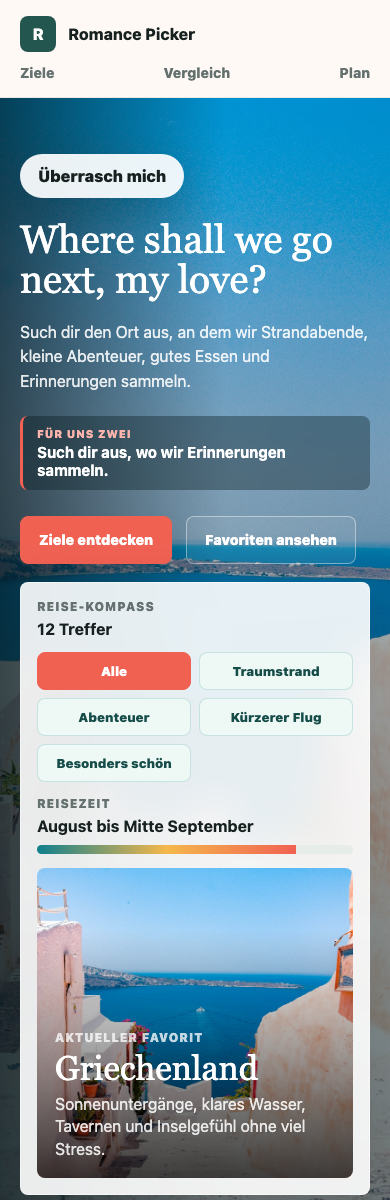
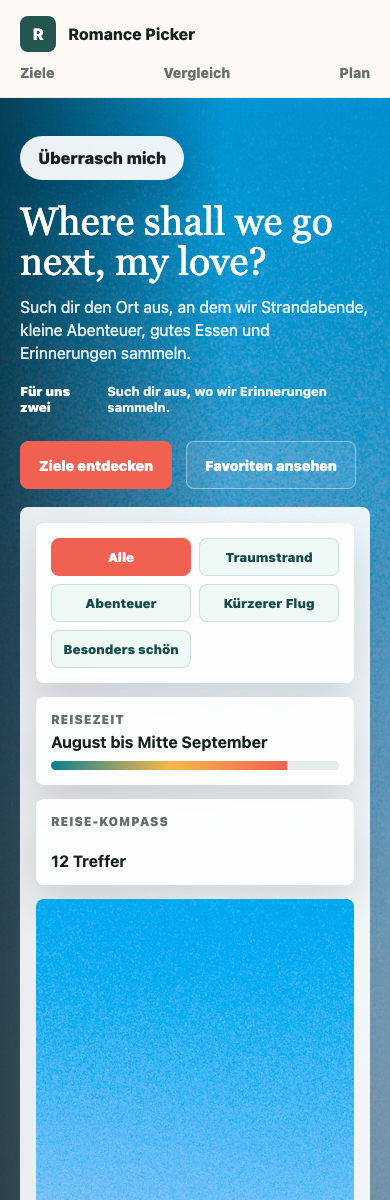
Tighten dashboard mockup fidelity

diff --git a/styles.css b/styles.css
@@ -74,12 +74,9 @@ button { font: inherit; }
 main, footer { margin-left: 182px; }
 .hero {
   position: relative;
-  min-height: 570px;
-  display: grid;
-  grid-template-columns: minmax(0, 1fr) 460px;
-  gap: 18px;
-  align-items: end;
-  padding: 48px 430px 25px 46px;
+  min-height: 462px;
+  display: block;
+  padding: 52px 430px 22px 44px;
   color: white;
   background:
     linear-gradient(90deg, rgba(6, 22, 27, 0.7), rgba(6, 22, 27, 0.08) 58%, rgba(6, 22, 27, 0.1)),
@@ -87,11 +84,11 @@ main, footer { margin-left: 182px; }
     url("https://images.unsplash.com/photo-1533105079780-92b9be482077?auto=format&fit=crop&w=1900&q=84") center / cover;
 }
 .hero > * { min-width: 0; }
-.hero-copy { align-self: start; padding-top: 18px; }
+.hero-copy { position: static; z-index: 2; max-width: 610px; }
 .surprise-pill {
   position: absolute;
-  top: 28px;
-  right: 450px;
+  top: 20px;
+  right: 430px;
   min-height: 44px;
   padding: 0 18px;
   color: var(--ink);
@@ -103,28 +100,27 @@ main, footer { margin-left: 182px; }
   box-shadow: 0 16px 42px rgba(0,0,0,0.16);
 }
 .hero-copy h1 {
-  max-width: 560px;
+  max-width: 520px;
   margin: 0;
   font-family: Georgia, "Times New Roman", serif;
-  font-size: clamp(52px, 4.4vw, 66px);
+  font-size: clamp(46px, 3.6vw, 58px);
   font-weight: 500;
   line-height: 0.98;
   letter-spacing: 0;
 }
-.hero-copy p { max-width: 520px; margin: 20px 0 0; color: rgba(255,255,255,0.88); font-size: 18px; line-height: 1.55; }
+.hero-copy p { max-width: 520px; margin: 14px 0 0; color: rgba(255,255,255,0.88); font-size: 16px; line-height: 1.45; }
 .love-note {
-  display: inline-grid;
-  gap: 3px;
-  margin-top: 22px;
-  padding: 11px 14px;
-  background: rgba(6, 27, 31, 0.38);
-  border-left: 3px solid var(--coral);
-  border-radius: 8px;
-  backdrop-filter: blur(10px);
+  display: inline-flex;
+  align-items: center;
+  gap: 10px;
+  margin-top: 18px;
+  padding: 0;
+  background: transparent;
+  border: 0;
 }
-.love-note span { color: #ffb5ad; font-size: 11px; font-weight: 900; letter-spacing: 0.08em; text-transform: uppercase; }
-.love-note strong { color: white; font-size: 15px; }
-.hero-actions { display: flex; flex-wrap: wrap; gap: 14px; margin-top: 26px; }
+.love-note span { color: white; font-size: 13px; font-weight: 900; letter-spacing: 0; text-transform: none; }
+.love-note strong { color: rgba(255,255,255,0.9); font-size: 13px; }
+.hero-actions { position: absolute; left: 44px; bottom: 28px; z-index: 3; display: flex; flex-wrap: wrap; gap: 14px; margin-top: 0; }
 .primary-action, .ghost-action {
   display: inline-flex;
   align-items: center;
@@ -137,22 +133,40 @@ main, footer { margin-left: 182px; }
 }
 .primary-action { color: white; background: var(--coral); border: 1px solid var(--coral); }
 .ghost-action { color: white; background: rgba(255,255,255,0.08); border: 1px solid rgba(255,255,255,0.42); }
+.hero-actions .ghost-action { display: none; }
 
 .decision-panel {
-  align-self: end;
+  position: absolute;
+  left: 32px;
+  right: 430px;
+  bottom: 120px;
+  z-index: 2;
   display: grid;
-  gap: 14px;
-  padding: 16px;
-  max-width: 100%;
-  overflow: hidden;
+  grid-template-columns: 1.2fr 0.88fr 0.68fr;
+  gap: 8px;
+  padding: 0;
   color: var(--ink);
-  background: rgba(255, 255, 255, 0.9);
-  border: 1px solid rgba(255,255,255,0.5);
+  background: transparent;
+  border: 0;
+  border-radius: 0;
+  box-shadow: none;
+  backdrop-filter: none;
+}
+.panel-head {
+  order: 3;
+  min-height: 86px;
+  padding: 14px;
+  display: flex;
+  align-items: start;
+  justify-content: space-between;
+  gap: 18px;
+  background: rgba(255,255,255,0.92);
+  border: 1px solid rgba(255,255,255,0.62);
   border-radius: 8px;
-  box-shadow: var(--shadow);
+  box-shadow: 0 16px 42px rgba(0,0,0,0.14);
   backdrop-filter: blur(16px);
 }
-.panel-head, .season-meter > div:first-child { display: flex; justify-content: space-between; gap: 18px; }
+.season-meter > div:first-child { display: flex; justify-content: space-between; gap: 18px; }
 .panel-head span, .season-meter span, .spotlight span, .timeline span, .card-meta span {
   color: var(--muted);
   font-size: 12px;
@@ -160,7 +174,18 @@ main, footer { margin-left: 182px; }
   letter-spacing: 0.08em;
   text-transform: uppercase;
 }
-.filter-group { display: flex; flex-wrap: wrap; gap: 8px; }
+.filter-group,
+.season-meter {
+  min-height: 86px;
+  padding: 14px;
+  background: rgba(255,255,255,0.92);
+  border: 1px solid rgba(255,255,255,0.62);
+  border-radius: 8px;
+  box-shadow: 0 16px 42px rgba(0,0,0,0.14);
+  backdrop-filter: blur(16px);
+}
+.filter-group { order: 1; display: flex; flex-wrap: wrap; gap: 8px; }
+.season-meter { order: 2; }
 .chip {
   min-height: 38px;
   padding: 0 13px;
@@ -175,15 +200,15 @@ main, footer { margin-left: 182px; }
 .chip.is-active { color: white; background: var(--coral); border-color: var(--coral); }
 .meter-track { height: 9px; margin-top: 10px; overflow: hidden; background: #e6ece7; border-radius: 99px; }
 .meter-track span { display: block; height: 100%; background: linear-gradient(90deg, var(--sea), var(--sun), var(--coral)); }
-.spotlight { position: relative; min-height: 190px; overflow: hidden; color: white; border-radius: 8px; isolation: isolate; }
+.spotlight { order: 4; position: absolute; left: 0; top: 104px; width: min(385px, 38vw); min-height: 108px; overflow: hidden; color: white; border-radius: 8px; isolation: isolate; }
 .spotlight.image-failed, .card-image.image-failed { background: linear-gradient(135deg, rgba(15,127,141,.35), rgba(233,111,95,.3)), #214f45; }
 .spotlight.image-failed img, .card-image.image-failed img { opacity: 0; }
-.spotlight img { position: absolute; inset: 0; z-index: -2; width: 100%; height: 100%; object-fit: cover; }
-.spotlight::after { position: absolute; inset: 0; z-index: -1; content: ""; background: linear-gradient(180deg, transparent 20%, rgba(0,0,0,0.76)); }
+.spotlight img { display: none; }
+.spotlight::after { position: absolute; inset: 0; z-index: -1; content: ""; background: rgba(5, 26, 31, 0.72); border-left: 2px solid var(--coral); backdrop-filter: blur(8px); }
 .spotlight div { display: flex; flex-direction: column; justify-content: flex-end; height: 100%; padding: 18px; }
 .spotlight span { color: rgba(255,255,255,0.76); }
-.spotlight strong { margin-top: 4px; font-family: Georgia, "Times New Roman", serif; font-size: 34px; font-weight: 500; }
-.spotlight p { max-width: 430px; margin: 6px 0 0; color: rgba(255,255,255,0.86); line-height: 1.4; }
+.spotlight strong { margin-top: 4px; font-family: Georgia, "Times New Roman", serif; font-size: 22px; font-weight: 500; }
+.spotlight p { display: none; }
 
 .compare-drawer {
   position: fixed;
@@ -214,33 +239,36 @@ main, footer { margin-left: 182px; }
 .drawer-table small { color: var(--coral); font-weight: 800; }
 .drawer-action { display: flex; justify-content: center; margin-top: 22px; padding: 14px; border: 1px solid var(--ink); border-radius: 8px; font-size: 14px; font-weight: 900; }
 
-.intro-band { display: grid; grid-template-columns: repeat(3, 1fr); gap: 1px; margin: 0 390px 0 182px; overflow: hidden; background: var(--line); border-bottom: 1px solid var(--line); }
+.intro-band { display: none; }
 .intro-band div { display: grid; gap: 6px; padding: 22px 24px; background: var(--white); }
 .intro-band strong { font-size: 18px; }
 .intro-band span { color: var(--muted); line-height: 1.45; }
-.section-head { display: grid; grid-template-columns: minmax(0, .75fr) minmax(280px, .5fr); gap: 30px; align-items: end; padding: 76px 430px 24px 46px; }
+.section-head { display: grid; grid-template-columns: minmax(0, .75fr) minmax(280px, .5fr); gap: 30px; align-items: end; padding: 18px 430px 10px 22px; background: white; }
 .section-head.compact { grid-template-columns: 1fr; padding: 0; }
-.section-head h2, .planner h2 { margin: 0; font-family: Georgia, "Times New Roman", serif; font-size: clamp(36px, 5vw, 68px); font-weight: 500; line-height: 1; }
-.section-head p, .planner-copy p { margin: 0; color: var(--muted); font-size: 18px; line-height: 1.6; }
+.section-head h2, .planner h2 { margin: 0; font-family: Inter, ui-sans-serif, system-ui, sans-serif; font-size: 18px; font-weight: 900; line-height: 1.1; }
+.section-head p, .planner-copy p { margin: 0; color: var(--muted); font-size: 14px; line-height: 1.45; }
+.destinations-head p { display: none; }
 
-.destination-grid { display: grid; grid-auto-flow: column; grid-auto-columns: minmax(190px, 230px); gap: 12px; overflow-x: auto; padding: 0 430px 34px 46px; scroll-snap-type: x mandatory; }
-.destination-card { scroll-snap-align: start; position: relative; display: grid; grid-template-rows: 170px 1fr; overflow: hidden; min-height: 326px; background: white; border: 1px solid rgba(23,33,31,.1); border-radius: 8px; box-shadow: 0 16px 46px rgba(32,48,46,.08); transition: transform 220ms ease, box-shadow 220ms ease; }
+.destination-grid { display: grid; grid-auto-flow: column; grid-auto-columns: 122px; gap: 8px; overflow-x: auto; padding: 0 430px 12px 22px; background: white; scroll-snap-type: x mandatory; }
+.destination-card { scroll-snap-align: start; position: relative; display: grid; grid-template-rows: 100px 1fr; overflow: hidden; min-height: 150px; background: white; border: 1px solid rgba(23,33,31,.1); border-radius: 8px; box-shadow: 0 8px 20px rgba(32,48,46,.08); transition: transform 220ms ease, box-shadow 220ms ease; }
 .destination-card:hover { box-shadow: 0 24px 70px rgba(32,48,46,.15); transform: translateY(-4px); }
 .destination-card.is-hidden { display: none; }
 .card-image { position: relative; overflow: hidden; }
 .card-image::after { position: absolute; inset: auto 0 0; height: 62%; content: ""; background: linear-gradient(180deg, transparent, rgba(0,0,0,.58)); pointer-events: none; }
 .card-image img { width: 100%; height: 100%; object-fit: cover; transition: transform 600ms ease; }
 .destination-card:hover .card-image img { transform: scale(1.04); }
-.heart { position: absolute; top: 12px; right: 12px; z-index: 2; display: grid; width: 36px; height: 36px; place-items: center; color: var(--ink); background: rgba(255,255,255,.9); border: 0; border-radius: 8px; cursor: pointer; font-size: 20px; box-shadow: 0 12px 34px rgba(0,0,0,.16); }
+.heart { position: absolute; top: 6px; right: 6px; z-index: 2; display: grid; width: 26px; height: 26px; place-items: center; color: white; background: rgba(255,255,255,.18); border: 1px solid rgba(255,255,255,.7); border-radius: 8px; cursor: pointer; font-size: 16px; box-shadow: 0 8px 18px rgba(0,0,0,.16); }
 .heart.is-liked { color: white; background: var(--coral); }
-.card-body { display: grid; align-content: start; gap: 10px; padding: 16px; }
+.card-body { display: grid; align-content: start; gap: 4px; padding: 8px; color: white; background: linear-gradient(180deg, #09272d, #041014); }
 .card-title { display: flex; justify-content: space-between; gap: 10px; align-items: start; }
-.card-title h3 { margin: 0; font-family: Georgia, "Times New Roman", serif; font-size: 25px; font-weight: 500; }
-.score { min-width: 48px; padding: 6px 8px; text-align: center; color: white; background: linear-gradient(135deg, #164d48, var(--sea)); border-radius: 8px; font-size: 12px; font-weight: 900; }
-.card-body p { margin: 0; color: var(--muted); line-height: 1.45; font-size: 13px; }
+.card-title h3 { margin: 0; font-family: Inter, ui-sans-serif, system-ui, sans-serif; font-size: 11px; font-weight: 900; line-height: 1.15; }
+.score { display: none; }
+.card-body p { display: none; }
 .card-meta, .activity-tags { display: flex; flex-wrap: wrap; gap: 6px; }
-.card-meta span, .activity-tags span { padding: 7px 8px; background: #f5f1ea; border-radius: 8px; letter-spacing: 0; text-transform: none; font-size: 11px; }
-.activity-tags span { color: #164d48; background: #eef8f5; font-weight: 800; }
+.card-meta span, .activity-tags span { padding: 0; color: rgba(255,255,255,.78); background: transparent; border-radius: 0; letter-spacing: 0; text-transform: none; font-size: 9px; }
+.card-meta span:nth-child(2) { display: none; }
+.activity-tags span { display: none; }
+.activity-tags span:first-child { display: inline; color: rgba(255,255,255,.78); background: transparent; font-weight: 700; }
 
 .dashboard-row {
   display: grid;
@@ -252,8 +280,8 @@ main, footer { margin-left: 182px; }
   border-bottom: 1px solid var(--line);
 }
 .dashboard-row article {
-  min-height: 255px;
-  padding: 22px;
+  min-height: 260px;
+  padding: 16px;
   background: white;
 }
 .module-head {
@@ -422,6 +450,11 @@ footer { display: flex; flex-wrap: wrap; gap: 12px 28px; justify-content: space-
   main, footer { margin-left: 0; }
   .hero { grid-template-columns: 1fr; padding: 54px 5vw 44px; }
   .surprise-pill { right: 5vw; }
+  .hero-actions { position: static; margin-top: 26px; }
+  .hero-actions .ghost-action { display: inline-flex; }
+  .decision-panel { position: static; display: grid; grid-template-columns: 1fr; gap: 14px; margin-top: 26px; padding: 16px; background: rgba(255,255,255,.9); border-radius: 8px; box-shadow: var(--shadow); }
+  .spotlight { position: relative; left: auto; top: auto; width: 100%; min-height: 310px; }
+  .spotlight img { display: block; }
   .intro-band { margin: 0; }
   .dashboard-row { grid-template-columns: 1fr; margin: 0; }
   .section-head, .destination-grid, footer { padding-right: 5vw; padding-left: 5vw; }
@@ -437,7 +470,7 @@ footer { display: flex; flex-wrap: wrap; gap: 12px 28px; justify-content: space-
   .surprise-pill { position: static; margin-bottom: 22px; }
   .hero-copy h1 { max-width: 100%; font-size: 39px; line-height: 1.02; }
   .hero-copy p { max-width: calc(100vw - 40px); font-size: 16px; overflow-wrap: anywhere; }
-  .decision-panel { width: 100%; max-width: calc(100vw - 40px); margin: 0; padding: 16px; }
+  .decision-panel { width: 100%; max-width: calc(100vw - 40px); margin-top: 18px; padding: 16px; }
   .panel-head, .season-meter > div:first-child { align-items: flex-start; flex-direction: column; gap: 6px; }
   .filter-group { display: grid; grid-template-columns: repeat(2, minmax(0, 1fr)); }
   .chip { width: 100%; min-width: 0; padding: 0 10px; }

diff --git a/index.html b/index.html
@@ -121,7 +121,7 @@
       </section>
 
       <section class="section-head destinations-head" id="ziele">
-        <h2>Die schönsten Kandidaten</h2>
+        <h2>Pick your paradise</h2>
         <p>
           Bali bleibt bewusst draußen. Dafür sind ein paar romantische Juwelen dabei,
           die Strand, Romantik und Erlebnisse stark kombinieren.
